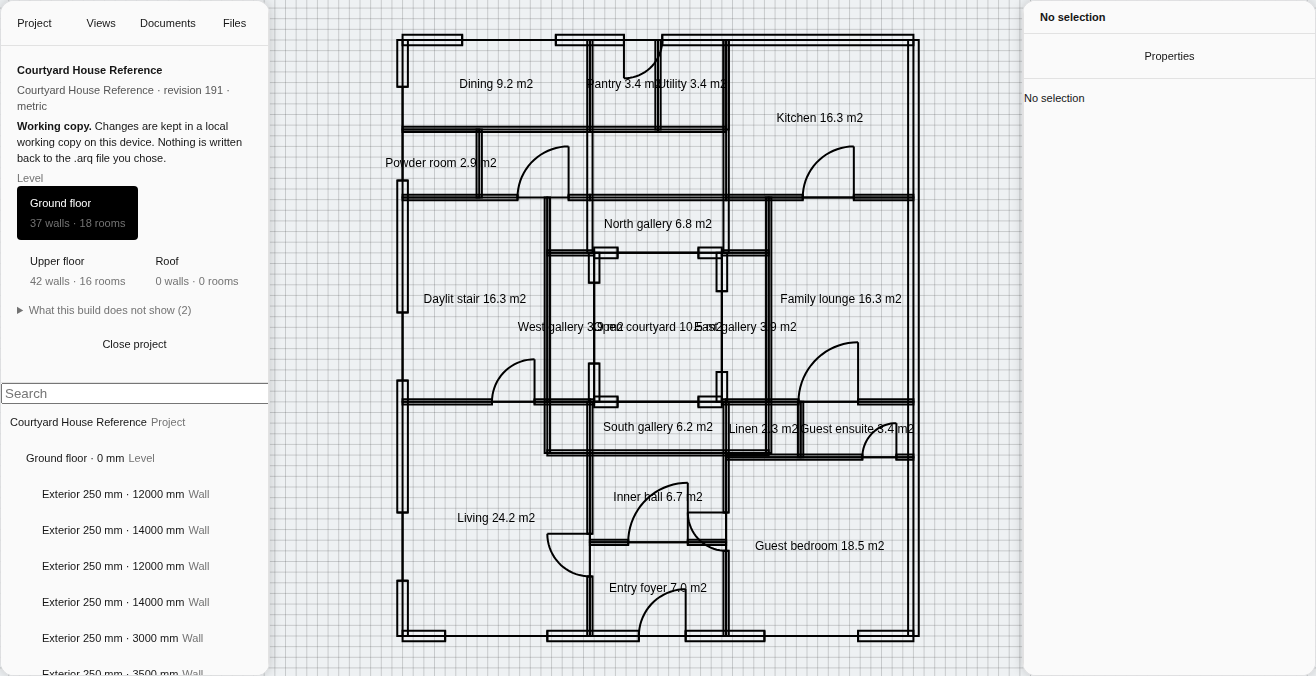
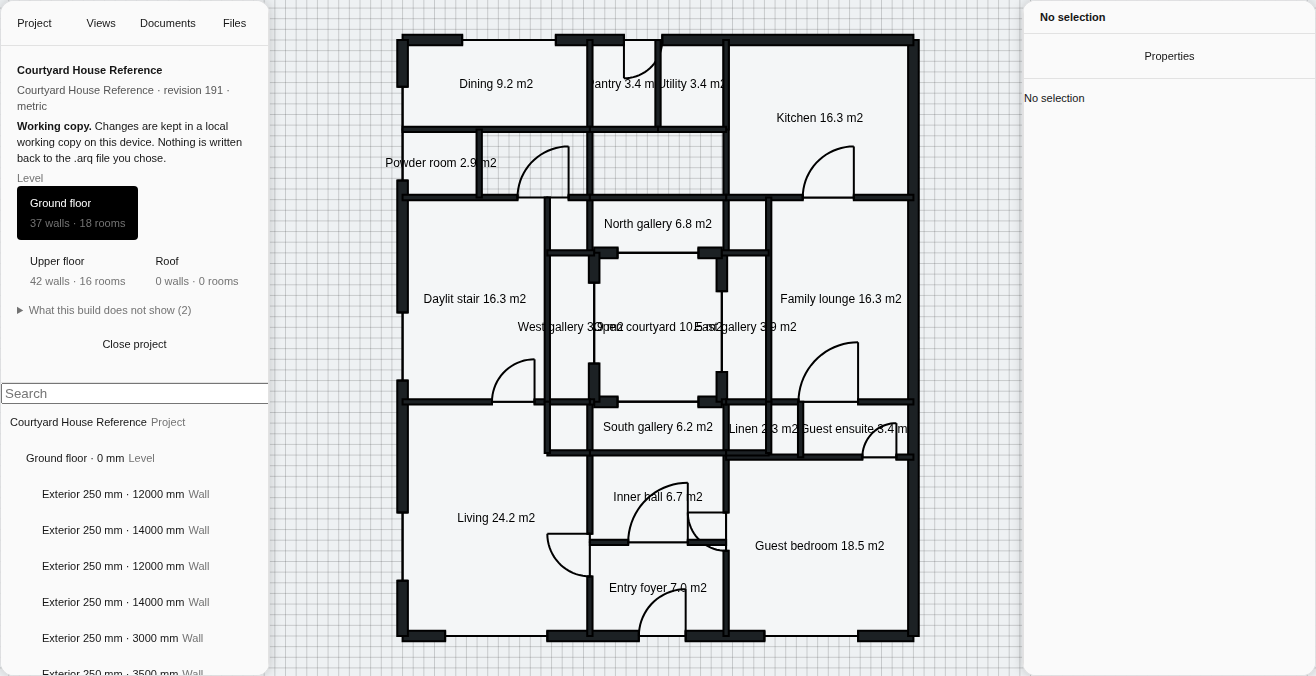
Fill the walls and the rooms, so the plan reads as a plan
The drawing had every wall in the right place and none of them solid: a
wireframe of outlines where a plan shows poché, the cut-through fill left by the
section plane. Rooms were labelled but untinted, so an enclosed area read as
four walls that happen to meet.

Added as a `fill` on the existing polygon primitive rather than as a new
primitive kind. A filled wall is the same shape in the same place as an unfilled
one, so every consumer that already knows how to hit-test, select, export or
measure a polygon keeps working untouched; a new kind would have had to be
taught to all of them to say one extra thing about paint. The values are named
by meaning - `poche` and `room` - and the palette decides what either looks
like, so both survive a change of appearance.

Poché is deliberately not `--arq-ui-ink`. A wall filled with the same value as
its own outline loses the outline, and loses the join between two walls with it.
In dark it becomes a light solid on a dark page, which is the same figure and
ground relationship inverted rather than a black shape on near-black.

A fill the palette has no colour for is skipped rather than defaulted, and a
polygon with fewer than three points is not filled at all. An unasked-for colour
on someone's drawing is worse than no colour.

Evidence: 4 new paint tests; `pnpm vitest run` 3,605 tests / 333 files uncached;
typecheck, lint and `pnpm --filter @arq/web build` clean; language ladder
[…]

Changed region(s): [[0.2804, 0.0311, 0.7166, 0.963]]

diff --git a/packages/plan-renderer/src/canvas2d-paint.test.ts b/packages/plan-renderer/src/canvas2d-paint.test.ts
@@ -1,7 +1,7 @@
 import { describe, expect, it } from 'vitest';
 import { worldPoint, type Viewport } from '@arq/geometry-2d';
 import type { PlanScene } from './plan-scene';
-import { paintPlanScene, type Canvas2dPaintTarget } from './canvas2d-paint';
+import { DEFAULT_PLAN_PALETTE, paintPlanScene, type Canvas2dPaintTarget } from './canvas2d-paint';
 
 type RecordedCall = readonly [method: string, ...args: unknown[]];
 
@@ -172,5 +172,103 @@ describe('paintPlanScene', () => {
     const fillTextIndex = target.calls.findIndex((call) => call[0] === 'fillText');
     const firstBeginPathIndex = target.calls.findIndex((call) => call[0] === 'beginPath');
     expect(firstBeginPathIndex).toBeLessThan(fillTextIndex);
+  });
+});
+
+describe('polygon fills', () => {
+  function recordingTarget() {
+    const calls: string[] = [];
+    const target = {
+      beginPath: () => calls.push('beginPath'),
+      closePath: () => calls.push('closePath'),
+      moveTo: () => calls.push('moveTo'),
+      lineTo: () => calls.push('lineTo'),
+      arc: () => calls.push('arc'),
+      stroke: () => calls.push('stroke'),
+      fill: () => calls.push('fill'),
+      fillText: () => calls.push('fillText'),
+      setLineDash: () => calls.push('setLineDash'),
+      strokeStyle: '',
+      fillStyle: '',
+      lineWidth: 0,
+      font: '',
+    } as unknown as Canvas2dPaintTarget & { fillStyle: string };
+    return { target, calls };
+  }
+
+  const VIEWPORT = {
+    center: worldPoint(0, 0),
+    pixelsPerUnit: 1,
+    screenWidth: 100,
+    screenHeight: 100,
+  };
+  const SQUARE = [worldPoint(0, 0), worldPoint(10, 0), worldPoint(10, 10), worldPoint(0, 10)];
+
+  it('leaves a polygon without a fill exactly as it was: outline only', () => {
+    const { target, calls } = recordingTarget();
+    paintPlanScene(
+      target,
+      VIEWPORT,
+      1,
+      { primitives: [{ kind: 'polygon', elementId: 'w', points: SQUARE, styleToken: 'default' }] },
+      DEFAULT_PLAN_PALETTE,
+    );
+    expect(calls).not.toContain('fill');
+    expect(calls).toContain('stroke');
+  });
+
+  it('fills before it strokes, so the outline is not half-covered by its own fill', () => {
+    const { target, calls } = recordingTarget();
+    paintPlanScene(
+      target,
+      VIEWPORT,
+      1,
+      {
+        primitives: [
+          { kind: 'polygon', elementId: 'w', points: SQUARE, styleToken: 'default', fill: 'poche' },
+        ],
+      },
+      { ...DEFAULT_PLAN_PALETTE, poche: '#123456' },
+    );
+    expect(calls.indexOf('fill')).toBeLessThan(calls.lastIndexOf('stroke'));
+  });
+
+  it('skips a fill the palette has no colour for, rather than defaulting one', () => {
+    const { target, calls } = recordingTarget();
+    paintPlanScene(
+      target,
+      VIEWPORT,
+      1,
+      {
+        primitives: [
+          { kind: 'polygon', elementId: 'r', points: SQUARE, styleToken: 'default', fill: 'room' },
+        ],
+      },
+      // An unasked-for colour on a drawing is worse than no colour at all.
+      DEFAULT_PLAN_PALETTE,
+    );
+    expect(calls).not.toContain('fill');
+  });
+
+  it('does not fill a degenerate polygon that cannot enclose anything', () => {
+    const { target, calls } = recordingTarget();
+    paintPlanScene(
+      target,
+      VIEWPORT,
+      1,
+      {
+        primitives: [
+          {
+            kind: 'polygon',
+            elementId: 'w',
+            points: [worldPoint(0, 0), worldPoint(10, 0)],
+            styleToken: 'default',
+            fill: 'poche',
+          },
+        ],
+      },
+      { ...DEFAULT_PLAN_PALETTE, poche: '#123456' },
+    );
+    expect(calls).not.toContain('fill');
   });
 });

diff --git a/packages/plan-renderer/src/canvas2d-paint.ts b/packages/plan-renderer/src/canvas2d-paint.ts
@@ -55,6 +55,14 @@ export interface PlanPalette {
   readonly paper: string;
   /** Selection, active tool and proposal states. */
   readonly accent: string;
+  /**
+   * The solid a wall is filled with where the section plane cuts it. Optional
+   * so a caller that has not chosen one still gets the outline-only drawing it
+   * had before, rather than a wall filled with a colour nobody picked.
+   */
+  readonly poche?: string;
+  /** The tint that makes an enclosed area read as a room. */
+  readonly roomFill?: string;
 }
 
 /** Light appearance, and the exact colours this renderer drew before it took a palette. */
@@ -145,6 +153,27 @@ function strokeWorldPolyline(
   target.stroke();
 }
 
+function fillWorldPolygon(
+  target: Canvas2dPaintTarget,
+  viewport: Viewport,
+  points: readonly WorldPoint[],
+): void {
+  if (points.length < 3) {
+    return;
+  }
+  target.beginPath();
+  points.forEach((point, index) => {
+    const screen = worldToScreen(viewport, point);
+    if (index === 0) {
+      target.moveTo(screen.x, screen.y);
+    } else {
+      target.lineTo(screen.x, screen.y);
+    }
+  });
+  target.closePath();
+  target.fill();
+}
+
 function paintPrimitive<TId>(
   target: Canvas2dPaintTarget,
   viewport: Viewport,
@@ -156,6 +185,20 @@ function paintPrimitive<TId>(
     case 'line':
     case 'polygon': {
       const treatment = lineTreatmentForToken(primitive.styleToken);
+      /*
+       * Filled first, then stroked, so the outline sits on top of its own fill
+       * rather than being half-covered by it. A fill the palette has no colour
+       * for is skipped rather than defaulted: an unasked-for colour on a wall
+       * is worse than no colour at all.
+       */
+      if (primitive.kind === 'polygon' && primitive.fill !== undefined) {
+        const colour = primitive.fill === 'poche' ? palette.poche : palette.roomFill;
+        if (colour !== undefined) {
+          target.setLineDash([]);
+          target.fillStyle = colour;
+          fillWorldPolygon(target, viewport, primitive.points);
+        }
+      }
       target.strokeStyle = strokeColorForToken(primitive.styleToken, palette);
       target.lineWidth = lineWeightToDevicePixels(treatment.weight, devicePixelRatio);
       target.setLineDash(treatment.dashCssPx.map((dash) => dash * devicePixelRatio));

diff --git a/apps/web/src/PlanCanvas.tsx b/apps/web/src/PlanCanvas.tsx
@@ -301,6 +301,11 @@ export function PlanCanvas(props: PlanCanvasProps): JSX.Element {
         ink: value('--arq-ui-ink', DEFAULT_PLAN_PALETTE.ink),
         paper: value('--arq-ui-paper', DEFAULT_PLAN_PALETTE.paper),
         accent: value('--arq-selection-outline', DEFAULT_PLAN_PALETTE.accent),
+        // Read from the appearance like everything else here, so poché stays a
+        // solid against the paper in dark as well as light rather than a black
+        // shape on a near-black page.
+        poche: value('--arq-plan-poche', DEFAULT_PLAN_PALETTE.ink),
+        roomFill: value('--arq-plan-room-fill', 'transparent'),
       });
     };
     read();
@@ -358,6 +363,9 @@ export function PlanCanvas(props: PlanCanvasProps): JSX.Element {
     const inputs: PlanPrimitiveInput<string>[] = [
       ...rooms.map((room): PlanPrimitiveInput<string> => ({
         kind: 'polygon',
+        // Tinted so an enclosed area reads as a room rather than as four walls
+        // that happen to meet. Drawn first, so the walls sit on top of it.
+        fill: 'room',
         elementId: room.id,
         points: room.polygon,
       })),
@@ -392,7 +400,7 @@ export function PlanCanvas(props: PlanCanvasProps): JSX.Element {
           );
           return outline === null
             ? [{ kind: 'line', elementId: wall.id, points: [wall.start, wall.end] }]
-            : [{ kind: 'polygon', elementId: wall.id, points: outline }];
+            : [{ kind: 'polygon', elementId: wall.id, points: outline, fill: 'poche' }];
         }
 
         /*
@@ -409,7 +417,12 @@ export function PlanCanvas(props: PlanCanvasProps): JSX.Element {
         for (const pier of wallPiers(host, openings)) {
           const outline = wallOutline(pier, thicknessMm, 'centre', 1e-6);
           if (outline !== null) {
-            primitives.push({ kind: 'polygon', elementId: wall.id, points: outline });
+            primitives.push({
+              kind: 'polygon',
+              elementId: wall.id,
+              points: outline,
+              fill: 'poche',
+            });
           }
         }
         for (const opening of planOpeningsForWall(host, openings)) {

diff --git a/packages/plan-renderer/src/plan-scene.ts b/packages/plan-renderer/src/plan-scene.ts
@@ -67,11 +67,31 @@ export interface PlanLinePrimitive<TId> {
 }
 
 /** Single-ring only, same scope limit as polygon-area.ts (ARQ-085) and room-boundary-graph.ts (ARQ-111). */
+/**
+ * What a closed polygon is filled with, if anything.
+ *
+ * A paint property rather than a new primitive kind, which is why it lives on
+ * the existing polygon instead of beside it: a filled wall is the same shape in
+ * the same place as an unfilled one, and every consumer that already knows how
+ * to hit-test, select, export or measure a polygon keeps working unchanged. A
+ * new kind would have had to be taught to all of them to say one extra thing
+ * about paint.
+ *
+ * Named by meaning, not by colour. `poche` is the cut-through solid a plan
+ * shows where the section plane passes through a wall; `room` is the tint that
+ * makes an enclosed area read as a room rather than as four walls that happen
+ * to meet. The palette decides what either looks like, so both survive a change
+ * of appearance.
+ */
+export type PlanFill = 'poche' | 'room';
+
 export interface PlanPolygonPrimitive<TId> {
   readonly kind: 'polygon';
   readonly elementId: TId;
   readonly points: readonly WorldPoint[];
   readonly styleToken: StyleToken;
+  /** Absent means outline only, which is what every polygon was before this existed. */
+  readonly fill?: PlanFill;
 }
 
 /** The annotation-primitive half of section 60 (dimension/note/room-label text). */

diff --git a/packages/design-system/src/shell/shell-tokens.css b/packages/design-system/src/shell/shell-tokens.css
@@ -27,6 +27,17 @@
    * table the panels rest on.
    */
   --arq-ui-canvas: #eef1f3;
+
+  /*
+   * Plan drawing solids. Poché is the cut-through fill where the section plane
+   * passes through a wall, and it is deliberately not `--arq-ui-ink`: a wall
+   * filled with the same value as its own outline loses the outline, and loses
+   * the join between two walls with it. The room tint is barely there on
+   * purpose - it has to make an enclosed area read as a room without competing
+   * with the linework that defines it.
+   */
+  --arq-plan-poche: #1c2124;
+  --arq-plan-room-fill: #f4f6f7;
   --arq-ui-surface-1: #fafafa;
   --arq-ui-surface-2: #f4f4f4;
   --arq-ui-surface-3: #ececec;
@@ -190,6 +201,10 @@
     --arq-ui-text-secondary: #b6bfc5;
     --arq-ui-text-primary: #e8edf0;
     --arq-ui-ink: #ffffff;
+    /* Dark: poché is a light solid on a dark page, which is the same figure and
+       ground relationship inverted rather than a black shape on near-black. */
+    --arq-plan-poche: #c9d1d6;
+    --arq-plan-room-fill: #1b1f22;
 
     /* A black scrim over already-dark content barely reads, so the dark
        backdrop is heavier than the light one to do the same job: say "what is

diff --git a/ARQ_V13_IMPLEMENTATION_LEDGER.md b/ARQ_V13_IMPLEMENTATION_LEDGER.md
@@ -96,16 +96,51 @@ joined to the real undo stack and real operation inversion.
 
 ### 6. Golden-fixture semantic plan
 
-**State:** partial (V12 row 7) - **the active slice**
-**Done:** rooms, wall footprints from `wallOutline`, wall dimensions and live
-palette all read from canonical data.
-**Remaining:** hosted openings. The repository's reader currently *counts*
-`openings`, `doors` and `windows` as unsupported content and says so truthfully
-("Openings are recorded but not drawn in plan or 3D yet"). The fixture holds 30
-openings, 14 doors and 16 windows with a clean canonical shape - host wall,
-offset from wall start, width, sill height, height, side, hand, swing angle.
-Also remaining: poché fill, wall joins (four join modules exist unwired), room
-label collision.
+**State:** implemented
+**Owner:** `packages/project-loading/src/native-project-model.ts`,
+`packages/plan-renderer/src/plan-openings.ts`,
+`packages/plan-renderer/src/canvas2d-paint.ts`, `apps/web/src/PlanCanvas.tsx`
+
+**Done.** The golden fixture's ground floor now draws as a plan rather than as a
+wireframe: 37 walls filled with poché, 18 tinted and labelled rooms, and the
+level's doors and windows as real openings.
+
+- The reader parses `openings`, `doors` and `windows` instead of counting them
+  as unsupported. It refuses an opening with no host wall, one running past its
+  wall's end, a swing that would sweep back through the wall, and two instances
+  in one void - each checked where the question can actually be answered.
+- `plan-openings.ts` projects an opening onto its host wall: reveal, jambs, door
+  leaf, swing arc, window glazing. Its own projection rather than a reuse of the
+  3D one, because a leaf and a swing exist only in plan and the sill and head
+  heights the 3D module needs mean nothing here. The two share the canonical
+  record, which is the right thing to share.
+- An opening is a hole, not a lid. A wall with openings is drawn as the
+  stretches that remain solid - the same decomposition `generateWallOpeningMeshes`
+  performs in three dimensions - so a filled wall cannot print solid over its own
+  doors in a vector sheet.
+- Poché and room tint are a `fill` on the existing polygon primitive rather than
+  a new primitive kind: a filled wall is the same shape in the same place, and
+  every consumer that already hit-tests, selects, exports or measures a polygon
+  keeps working unchanged. Both colours come from the appearance, so poché is a
+  light solid on a dark page rather than a black shape on near-black.
+
+**Remaining:** wall joins (four join modules exist unwired, so wall ends meet
+rather than mitre), room-label collision at small scales, and the fixture's five
+linear dimensions - still reported as unsupported, truthfully.
+
+**Evidence:** 25 new tests across `plan-openings.test.ts` and
+`canvas2d-paint.test.ts`; `golden-fixture-model.test.ts` reads the repository's
+own `.arq` and asserts 79 walls, 30 openings, 14 doors, 16 windows, 34 rooms
+from the file itself. `run-native-open-capability-check.mjs` opens the fixture
+through the real interface in headless Chromium and now saves the plan surface
+(`benchmarks/results/native-open-plan.png`) - it ended every run on the 3D tab
+before, so the surface most of this work changes had no capture at all.
+
+**Not `verified`:** the plan is captured at one viewport by that check, not at
+all four required classes, and no visual-regression baseline compares it against
+the Version 13 reference.
+**Rollback:** the fill is optional and absent means outline-only; the openings
+map is optional and an absent entry draws a wall solid, exactly as before.
 
 ### 7. Opening-aware 3D and section
 
